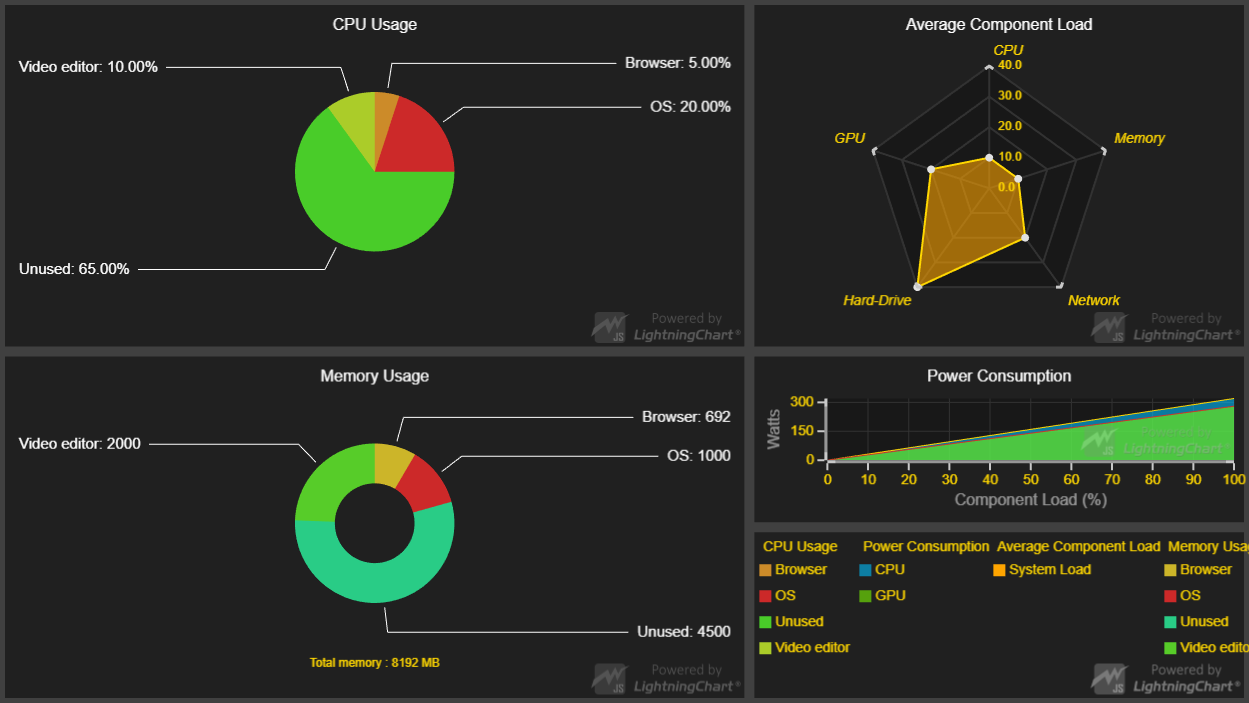
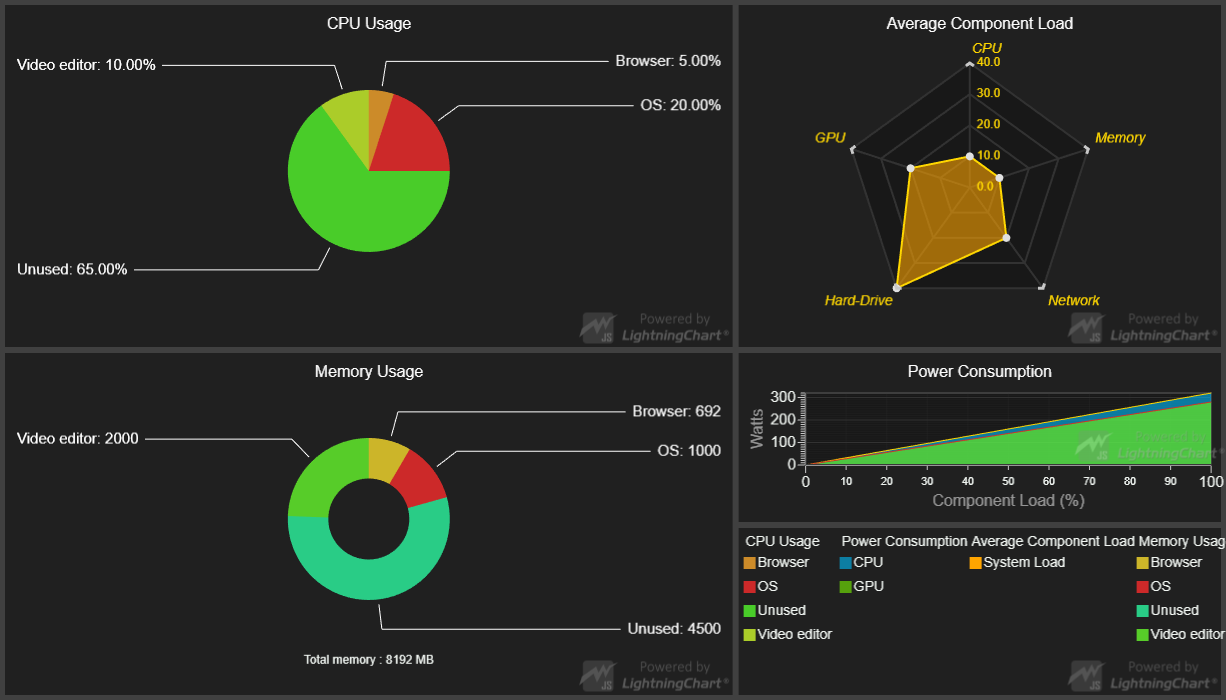
LCJS 2.0.0

diff --git a/src/index.js b/src/index.js
@@ -17,11 +17,13 @@ const {
     UIDraggingModes,
     PieChartTypes,
     UIElementBuilders,
-    SolidFillPalette
+    SolidFillPalette,
+    Themes
 } = lcjs
 
 // Create a 5x2 dashboard.
 const grid = lightningChart().Dashboard({
+    // theme: Themes.dark 
     numberOfRows: 3,
     numberOfColumns: 2
 }).setBackgroundFillStyle(new SolidFill().setColor(ColorRGBA(24, 24, 24)))

diff --git a/README.md b/README.md
@@ -24,14 +24,14 @@ This example shows different kinds of charts inside a dashboard.
 
 ## API Links
 
-* Dashboard: [Dashboard]
-* Solid FillStyle: [SolidFill]
-* RGBA color factory: [ColorRGBA]
-* XY cartesian chart: [ChartXY]
-* Axis: [Axis]
-* Pie chart: [PieChart]
-* Spider chart: [SpiderChart]
-* Default library style: [DefaultLibraryStyle]
+* [Dashboard]
+* [Solid FillStyle]
+* [RGBA color factory]
+* [XY cartesian chart]
+* [Axis]
+* [Pie chart]
+* [Spider chart]
+* [Default library style]
 
 
 ## Support
@@ -55,12 +55,12 @@ Direct developer email support can be purchased through a [Support Plan][4] or b
 © Arction Ltd 2009-2020. All rights reserved.
 
 
-[Dashboard]: https://www.arction.com/lightningchart-js-api-documentation/v1.3.0/classes/dashboard.html
-[SolidFill]: https://www.arction.com/lightningchart-js-api-documentation/v1.3.0/classes/solidfill.html
-[ColorRGBA]: https://www.arction.com/lightningchart-js-api-documentation/v1.3.0/globals.html#colorrgba
-[ChartXY]: https://www.arction.com/lightningchart-js-api-documentation/v1.3.0/classes/chartxy.html
-[Axis]: https://www.arction.com/lightningchart-js-api-documentation/v1.3.0/classes/axis.html
-[PieChart]: https://www.arction.com/lightningchart-js-api-documentation/v1.3.0/classes/piechart.html
-[SpiderChart]: https://www.arction.com/lightningchart-js-api-documentation/v1.3.0/classes/spiderchart.html
-[DefaultLibraryStyle]: https://www.arction.com/lightningchart-js-api-documentation/v1.3.0/globals.html#defaultlibrarystyle
+[Dashboard]: https://www.arction.com/lightningchart-js-api-documentation/v2.0.0/classes/dashboard.html
+[Solid FillStyle]: https://www.arction.com/lightningchart-js-api-documentation/v2.0.0/classes/solidfill.html
+[RGBA color factory]: https://www.arction.com/lightningchart-js-api-documentation/v2.0.0/globals.html#colorrgba
+[XY cartesian chart]: https://www.arction.com/lightningchart-js-api-documentation/v2.0.0/classes/chartxy.html
+[Axis]: https://www.arction.com/lightningchart-js-api-documentation/v2.0.0/classes/axis.html
+[Pie chart]: https://www.arction.com/lightningchart-js-api-documentation/v2.0.0/classes/piechart.html
+[Spider chart]: https://www.arction.com/lightningchart-js-api-documentation/v2.0.0/classes/spiderchart.html
+[Default library style]: https://www.arction.com/lightningchart-js-api-documentation/v2.0.0/globals.html#defaultlibrarystyle
 
